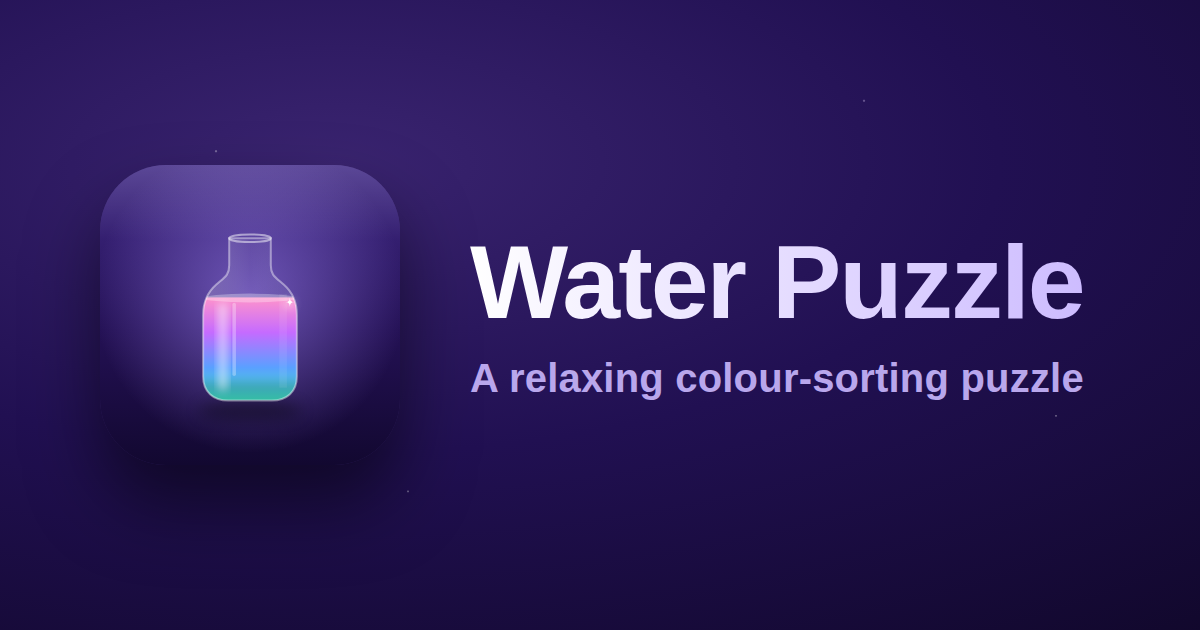
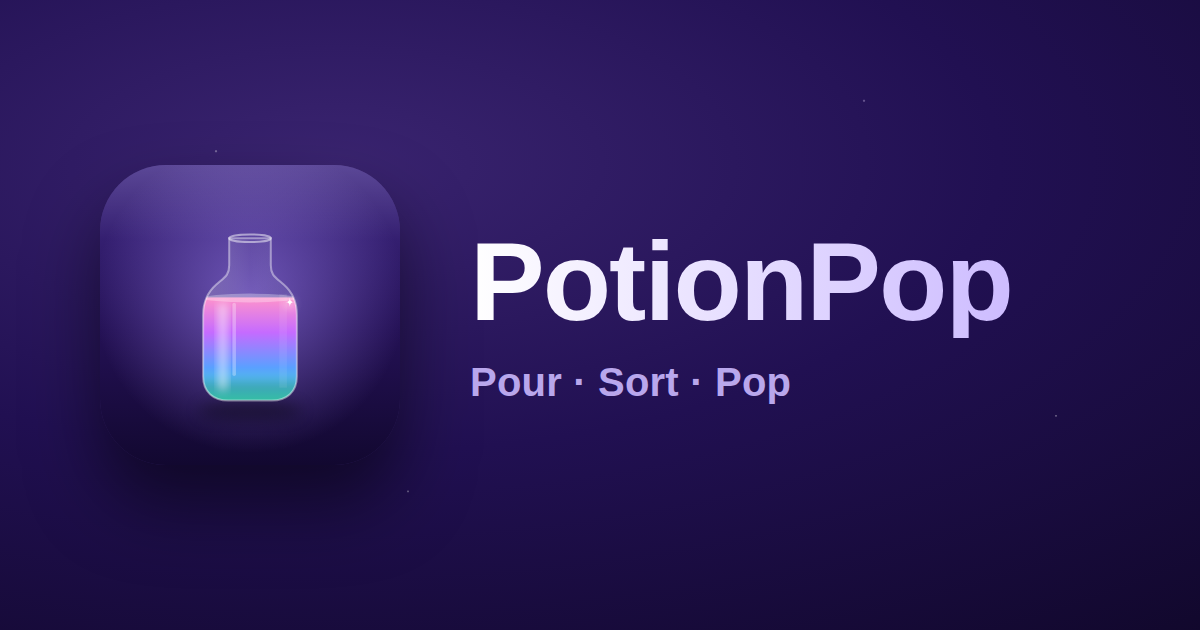
Rebrand to PotionPop and add a popping-bubble burst on completion
Rename the game (title, meta, PWA manifest, OG image + copy, README) from
Water Puzzle to PotionPop to avoid a name clash. The debug global is now
window.PotionPop (with a window.WaterPuzzle alias); localStorage keys are
kept so saved coins/progress carry over.

Lean into the name: when a bottle is completed, a burst of little bubbles
swells and pops into quick rings alongside the existing flash/rings/
sparkles. Regenerate og-image.png with the new name and a 'Pour · Sort ·
Pop' tagline (icon art unchanged — the potion bottle already fits).

Note: renaming the GitHub repo itself must be done in GitHub Settings
(no API available here); GitHub redirects old URLs and Vercel follows by
repo id. Bump asset version to v9. Verified brand, solve→win and FX with
no page errors.

Claude-Session: https://claude.ai/code/session_01Kbv5B4BM2ZUADRwG1mSV4H

Changed region(s): [[0.37, 0.3619, 0.925, 0.5429], [0.37, 0.573, 0.925, 0.6333]]

diff --git a/game.js b/game.js
@@ -1,5 +1,5 @@
 /* ============================================================
-   Water Puzzle  —  a premium "Magic Sort!"-style sorting game
+   PotionPop  —  a premium "Magic Sort!"-style potion-sorting game
    Bottle-shaped vessels with cork caps, tilt-to-pour physics,
    rippling liquid, a rewarded-ad power-up economy, coins,
    star ratings and confetti. Pure vanilla JS. No dependencies.
@@ -195,7 +195,7 @@ function newDyn(i) {
   const bubbles = [];
   const n = 3 + (i % 3);
   for (let k = 0; k < n; k++) bubbles.push({ x: Math.random(), r: 0.5 + Math.random(), sp: 0.15 + Math.random() * 0.25, ph: Math.random() });
-  return { lift: 0, wave: 0, phase: Math.random() * 6.28, completeAt: -1, completeColor: 0, sparks: [], bubbles };
+  return { lift: 0, wave: 0, phase: Math.random() * 6.28, completeAt: -1, completeColor: 0, sparks: [], pops: [], bubbles };
 }
 const COMPLETE_MS = 850;
 
@@ -672,6 +672,14 @@ function markComplete(idx, now) {
     sp: 0.75 + Math.random() * 1.0, r: 3.2 + Math.random() * 4.5,
     spin: Math.random() * 6.28, col: cols[k % cols.length],
   });
+  // "PotionPop" bubble burst: little bubbles that swell and pop.
+  d.pops = [];
+  const m = 9;
+  for (let k = 0; k < m; k++) d.pops.push({
+    a: Math.random() * Math.PI * 2, dist: 0.15 + Math.random() * 0.85,
+    r: 4 + Math.random() * 6, delay: Math.random() * 0.4,
+    col: k % 2 ? "#ffffff" : pal.l,
+  });
 }
 
 function drawSparkle(x, y, r, rot, color) {
@@ -737,6 +745,26 @@ function drawCompleteFX(now) {
       drawSparkle(px, py, sz * 1.7, s.spin + t * 6, rgba(pal.l, al * 0.9)); // colored halo
       ctx.shadowBlur = 0;
       drawSparkle(px, py, sz, s.spin + t * 6, rgba("#ffffff", al));           // white core
+    }
+
+    // popping bubbles: each swells, then bursts into a quick ring
+    for (const b of d.pops || []) {
+      const lt = (t - b.delay) / (1 - b.delay);
+      if (lt <= 0 || lt >= 1) continue;
+      const px = cx + Math.cos(b.a) * b.dist * w * 0.6;
+      const py = cyc + Math.sin(b.a) * b.dist * w * 0.55 - lt * w * 0.25; // drift up
+      if (lt < 0.7) {
+        // swelling bubble
+        const rr = b.r * (0.5 + lt);
+        ctx.beginPath(); ctx.arc(px, py, rr, 0, Math.PI * 2);
+        ctx.fillStyle = rgba(b.col, 0.18); ctx.fill();
+        ctx.strokeStyle = rgba(b.col, 0.8 * (1 - lt)); ctx.lineWidth = 2; ctx.stroke();
+      } else {
+        // burst ring
+        const pl = (lt - 0.7) / 0.3;
+        ctx.beginPath(); ctx.arc(px, py, b.r * (1.2 + pl * 1.6), 0, Math.PI * 2);
+        ctx.strokeStyle = rgba(b.col, (1 - pl) * 0.9); ctx.lineWidth = 2.5 * (1 - pl) + 0.5; ctx.stroke();
+      }
     }
     ctx.restore();
   }
@@ -1094,13 +1122,14 @@ window.addEventListener("resize", resize);
 window.addEventListener("load", resize);
 if (window.ResizeObserver) new ResizeObserver(resize).observe(boardEl);
 
-window.WaterPuzzle = {
+window.PotionPop = {
   state, layout: () => LAYOUT, click: onTubeClick, pouring: () => !!pour,
   legalMoves, applyPour, isSolved, boardKey, solvePath,
   useUndo, useHint, useAdd, openAd, grantAd, openStore, buyPowerup, openShop, buyInShop,
   pourP: () => pourProgress(), freeze: (v) => { FREEZE = v; },
   fx: (i, back) => { markComplete(i, performance.now() - (back || 0)); },
 };
+window.WaterPuzzle = window.PotionPop; // legacy alias
 
 loadPersisted();
 resize();

diff --git a/index.html b/index.html
@@ -4,8 +4,8 @@
   <meta charset="UTF-8" />
   <meta name="viewport" content="width=device-width, initial-scale=1.0, maximum-scale=1.0, user-scalable=no, viewport-fit=cover" />
   <meta name="theme-color" content="#1a0b3a" />
-  <title>Water Puzzle — color sorting puzzle</title>
-  <meta name="description" content="Pour and sort the colored liquids into matching bottles. A relaxing, free color-sorting puzzle you can play right in your browser." />
+  <title>PotionPop — pour, sort &amp; pop the potions</title>
+  <meta name="description" content="Pour and sort the colorful potions into matching bottles, then watch them pop! A relaxing, free color-sorting puzzle you can play right in your browser." />
 
   <!-- Icons / PWA -->
   <link rel="icon" type="image/svg+xml" href="/favicon.svg" />
@@ -15,25 +15,25 @@
   <meta name="mobile-web-app-capable" content="yes" />
   <meta name="apple-mobile-web-app-capable" content="yes" />
   <meta name="apple-mobile-web-app-status-bar-style" content="black-translucent" />
-  <meta name="apple-mobile-web-app-title" content="Water Puzzle" />
+  <meta name="apple-mobile-web-app-title" content="PotionPop" />
 
   <!-- Social share (Open Graph / Twitter). Paths are relative; when the
        custom domain is set you may hardcode absolute URLs for best previews. -->
   <meta property="og:type" content="website" />
-  <meta property="og:title" content="Water Puzzle — color sorting puzzle" />
-  <meta property="og:description" content="Pour and sort the colored liquids. Play free in your browser." />
+  <meta property="og:title" content="PotionPop — pour, sort &amp; pop the potions" />
+  <meta property="og:description" content="Sort the colorful potions and watch them pop. Play free in your browser." />
   <meta property="og:image" content="/og-image.png" />
   <meta property="og:image:width" content="1200" />
   <meta property="og:image:height" content="630" />
   <meta name="twitter:card" content="summary_large_image" />
-  <meta name="twitter:title" content="Water Puzzle — color sorting puzzle" />
-  <meta name="twitter:description" content="Pour and sort the colored liquids. Play free in your browser." />
+  <meta name="twitter:title" content="PotionPop — pour, sort &amp; pop the potions" />
+  <meta name="twitter:description" content="Sort the colorful potions and watch them pop. Play free in your browser." />
   <meta name="twitter:image" content="/og-image.png" />
 
   <link rel="preconnect" href="https://fonts.googleapis.com" />
   <link rel="preconnect" href="https://fonts.gstatic.com" crossorigin />
   <link href="https://fonts.googleapis.com/css2?family=Baloo+2:wght@600;700;800&family=Nunito:wght@700;800;900&display=swap" rel="stylesheet" />
-  <link rel="stylesheet" href="style.css?v=8" />
+  <link rel="stylesheet" href="style.css?v=9" />
 </head>
 <body>
   <div class="sky" aria-hidden="true">
@@ -166,6 +166,6 @@
     </div>
   </div>
 
-  <script src="game.js?v=8"></script>
+  <script src="game.js?v=9"></script>
 </body>
 </html>

diff --git a/README.md b/README.md
@@ -1,6 +1,8 @@
-# 💧 Water Puzzle
+# 🧪 PotionPop
 
-「Magic Sort!」風の色分けソートパズル。試験管に入り混じった色水を注ぎ分け、各試験管を単色にそろえるとクリアです。依存ライブラリなしのバニラ HTML / CSS / JS で動作します。
+「Magic Sort!」風の色分けソートパズル。ボトルに入り混じった色付きのポーションを注ぎ分け、各ボトルを単色にそろえるとクリア——完成した瞬間に**はじけるポップ演出**が弾けます。依存ライブラリなしのバニラ HTML / CSS / JS で動作します。
+
+> 旧名は「Water Puzzle」。同名タイトルとの重複を避けて **PotionPop** に改名しました（リポジトリ名は GitHub の Settings → Rename からご自身で変更できます）。
 
 | Gameplay | Pour | Complete FX | Clear |
 | --- | --- | --- | --- |
@@ -32,7 +34,7 @@
 - **Magic Sort 風のビジュアル**：紫のグラデ＋星空（きらめくスターフィールド）背景、ボトルの奥に淡い光のハロー、コルク付きボトル。UI は英語・アイコン中心。
 - **ボトルが傾く注ぎ演出**：注ぐボトルが持ち上がって傾き、放物線状の液体が注ぎ先へ。注ぎ元は減り、注ぎ先はせり上がって波打ちます。
 - **本物の液体表現**：Canvas でリアルタイム描画。円柱シェーディング、波打つ水面とメニスカスの光沢、立ちのぼる気泡、着水の波紋、ガラスの反射。
-- **完成/クリア演出**：ボトルが単色で満タンになると、放射フラッシュ＋二重の衝撃リング＋弾け飛ぶスパークル＋コルクが弾んで閉まるバウンドで祝福。クリア時は全ボトルが連鎖ポップ→紙吹雪＋**スター評価（最短手数と比較して★1〜3）**＋獲得コイン表示。
+- **完成/クリア演出（PotionPop）**：ボトルが単色で満タンになると、放射フラッシュ＋二重の衝撃リング＋弾け飛ぶスパークル＋**はじけるポップ・バブル**＋スクワッシュ・バウンドで祝福。クリア時は全ボトルが連鎖ポップ→紙吹雪＋**スター評価（最短手数と比較して★1〜3）**＋獲得コイン表示。
 - **必ず解ける盤面**：内蔵ソルバーで検証済みの盤面だけを出題。最短手数はバックグラウンドで計算します。
 - **効果音**：WebAudio 合成（音源ファイル不要）、ミュート設定は保存。
 - **モバイル対応**：レスポンシブ、タッチ操作、Retina 対応の高精細描画。
